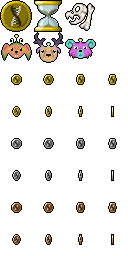
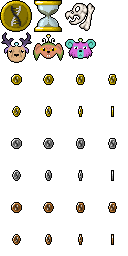
Corrigido bug na ordem da imagem.

Changed region(s): [[0.0, 0.125, 0.5, 0.25]]

diff --git a/js/level3.js b/js/level3.js
@@ -133,14 +133,14 @@ Level3.prototype.rodar = function(){
         }
       }
       image(menusImagens[10], xGame - 250, 25);
-      imgp = menusImagens[7].get(32 * criatura[1], 32, 32, 32);
-      image(imgp, xGame - 230, 75);
+      imgp = menusImagens[5].get(32 * criatura[1], 32, 32, 32);
+      image(imgp, xGame - 190, 80);
       fill(255);
       strokeWeight(3);
       stroke(0);
       textFont("Lithos Pro", 16);
       textStyle(BOLD);
-      text(criaturas.length, xGame - 190, 75);
+      text(criaturas.length, xGame - 150, 90);
     }
   }
 }
